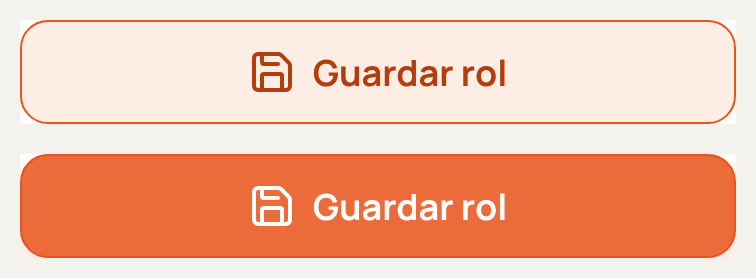
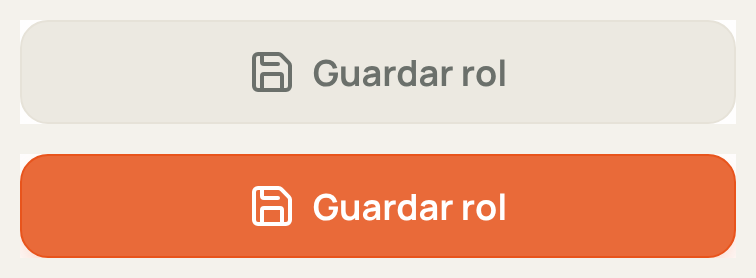
Roles: «Guardar rol» apagado va en gris (02b)
Pedido de Carlos.

Claude-Session: https://claude.ai/code/session_01BmbhiYJAfQvWshUgYzn7JL

diff --git a/docs/design/mockups/users-roles/final/shared/roles.css b/docs/design/mockups/users-roles/final/shared/roles.css
@@ -168,7 +168,7 @@
 }
 
 /* «Guardar rol» sin cambios: naranja apagado, sin sombra; se enciende con el primer cambio. */
-#save:disabled { opacity: 1; background: var(--accion-suave); color: var(--accion-texto); box-shadow: none; cursor: default; }
+#save:disabled { opacity: 1; background: var(--hundido); border-color: var(--borde); color: var(--texto-3); box-shadow: none; cursor: default; }
 #save:disabled .kbd { opacity: .6; }
 
 /* Cada permiso con su ícono (pedido de Carlos): blanco sin tildar, pino suave tildado. */

diff --git a/docs/design/mockups/users-roles/final/changes.md b/docs/design/mockups/users-roles/final/changes.md
@@ -132,7 +132,7 @@ Las personas y los roles son inventados; quien mira es Rubén Paredes, con Admin
 - **Cada permiso lleva su ícono** al lado de la casilla, en la computadora y en el celular, que se
   pone pino suave al tildarlo (pedido de Carlos). Los íconos de los grupos de ejemplo también son de
   ejemplo.
-- **«Guardar rol» arranca apagado** (naranja suave, sin sombra, sin tocarse) y se pone naranja fuerte
+- **«Guardar rol» arranca apagado** (gris, sin sombra, sin tocarse) y se pone naranja fuerte
   con el primer cambio, para que llame la atención; si se deshace el cambio, vuelve a apagarse. En
   un duplicado arranca encendido, porque la copia todavía no se guardó (pedido de Carlos).
 - **Lo de arriba del rol (el camino, el título y los botones) queda fijo al bajar,** y la vista
